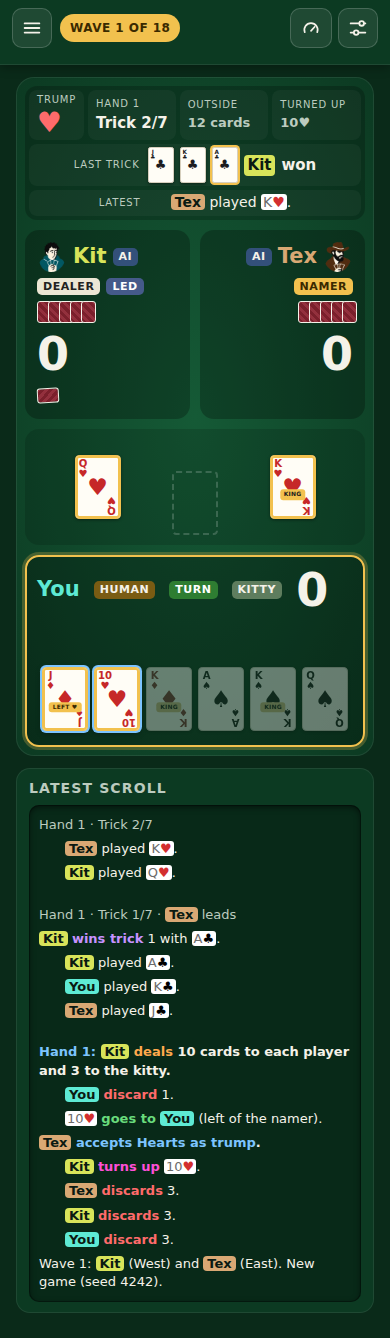
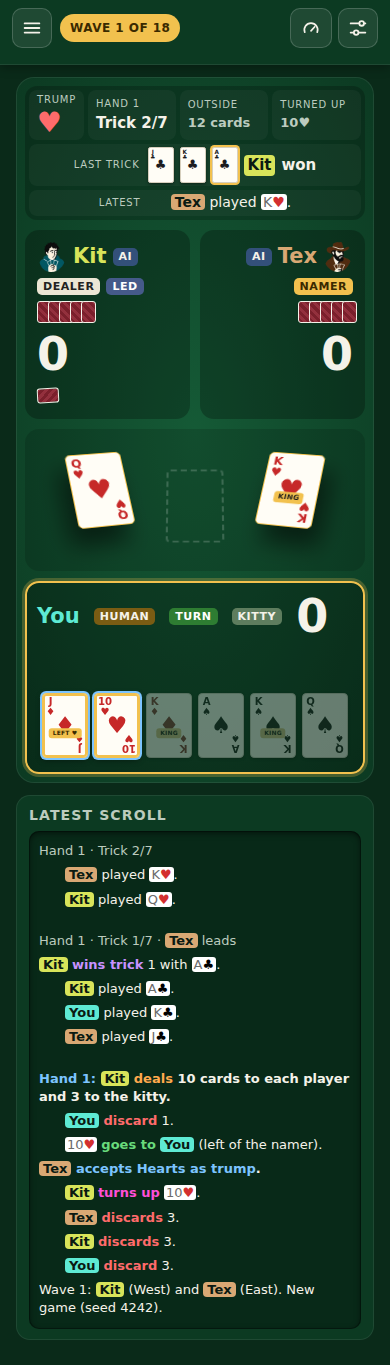
Mock up 3D trick cards that face your slot
The trick cards are about 1.2 times larger, the table tilts away from
you, each bot card turns toward your slot, and the cards lift with a
soft shadow. CSS 3D transforms only; the cards stay HTML.

Claude-Session: https://claude.ai/code/session_01QkpazkapUFZWg4SWZB1dDA

diff --git a/index.html b/index.html
@@ -2066,7 +2066,7 @@ const UI_PROFILE_ADVANCED = Object.freeze({
   '.who': { kind: 'L, S', show: 'Hidden. The slot\'s position shows who played.', click: null },
   '.summary': { kind: 'S, R', show: 'As now.', click: 'Its Continue button moves on, as now.' },
   '.meta': { kind: 'R', show: 'As now.', click: null },
-  '.trick': { kind: 'S', show: 'As now: one slot per seat, your slot lower than the bot slots, as at a real table. At trick end the cards slide to the winner\'s won-trick stack.', click: 'Skips the trick-end wait, as now.', issue: 53 },
+  '.trick': { kind: 'S', show: 'As now: one slot per seat, your slot lower than the bot slots, as at a real table. The trick cards are larger (about 1.2 times) and in 3D: the table tilts away from you, each bot card turns to face your slot, and every card lifts with a soft shadow. Reduced motion keeps the pose but drops the transition. At trick end the cards slide to the winner\'s won-trick stack.', click: 'Skips the trick-end wait, as now.', issue: 53 },
   'table.stats': { kind: 'R', show: 'As now.', click: null },
   '.status': { kind: 'S', show: 'Hidden on screen. #liveStatus still reads the full sentence to screen readers.', click: null, issue: 53 },
   '.lasttrick': { kind: 'R', show: 'Hidden in the center. The Last trick cell of the information strip shows it.', click: null, issue: 53 },

diff --git a/mockups/advanced.js b/mockups/advanced.js
@@ -41,6 +41,14 @@ const css = `
 .won .mini-back{width:22px;height:15px;margin-right:-14px;background:repeating-linear-gradient(-45deg,#7a1f2b 0 3px,#93303d 3px 6px);transform:rotate(-3deg)}
 .won .mini-back:nth-child(2n){transform:rotate(2deg)}
 .seat-east .won{justify-content:flex-end}
+/* Trick cards in 3D: the table tilts away from you, each bot card turns to face your slot, lifted and larger. */
+.trick{perspective:900px;perspective-origin:50% 120%;min-height:calc(var(--cw)*2.7)!important;padding:18px 10px 14px!important}
+.trick .slot{transform-style:preserve-3d}
+.trick .slot .card,.trick .slot .empty{--w:calc(var(--cw)*1.22);width:var(--w);height:calc(var(--w)*1.4);transition:transform .3s}
+.trick .slot-1 .card{transform:rotateX(22deg) rotateY(16deg) rotateZ(-14deg) translateZ(30px);box-shadow:-10px 18px 22px rgba(0,0,0,.5)}
+.trick .slot-2 .card{transform:rotateX(22deg) rotateY(-16deg) rotateZ(14deg) translateZ(30px);box-shadow:10px 18px 22px rgba(0,0,0,.5)}
+.trick .slot-0 .card,.trick .slot-0 .empty{transform:rotateX(22deg) translateZ(30px)}
+.trick .slot-0 .card{box-shadow:0 18px 22px rgba(0,0,0,.5)}
 .c-tag.king{background:#f2c14e;color:#1b1b1b}
 .gamelog li.gap:first-child{margin-top:0}
 `;
